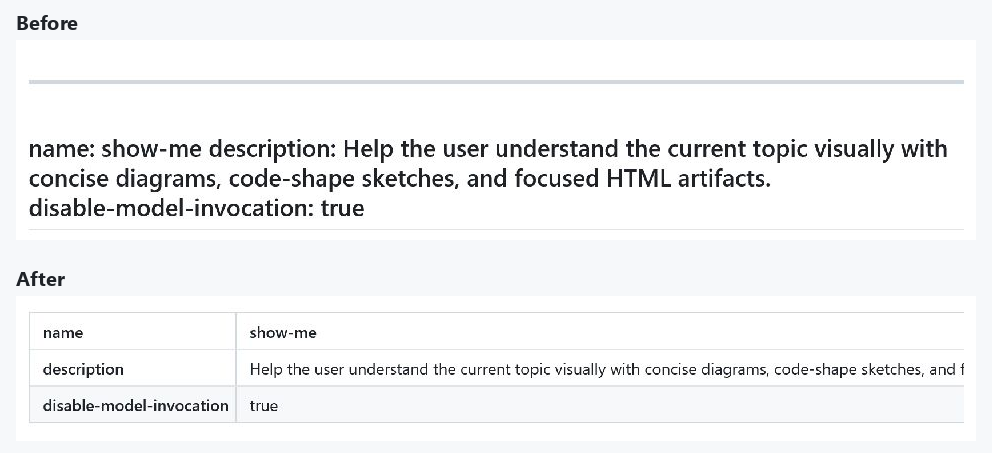
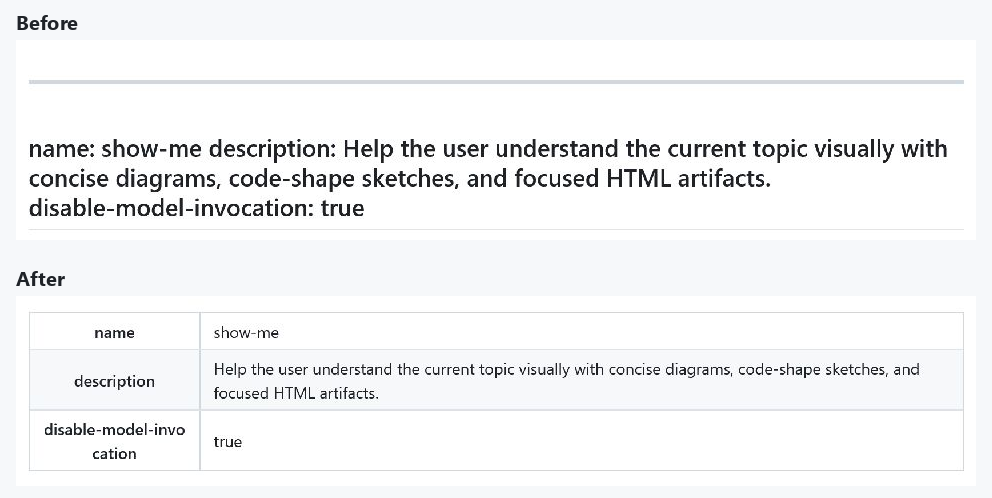
fix(markdown): match GitHub metadata and Copy controls
The initial metadata table stripes the wrong row and clips long
values. Code Copy also uses a smaller target than GitHub's control.

1. Render metadata keys as HTML row headers and opt into wrapping.
2. Pin the component fix for header semantics and paragraph widths.
3. Use the standard 32-pixel code Copy target and 16-pixel icon.
4. Refresh native evidence and document the verified scope.

diff --git a/src/core/markdown_frontmatter.rs b/src/core/markdown_frontmatter.rs
@@ -23,11 +23,11 @@ fn render(content: &str) -> Option<String> {
             if mapping.is_empty() {
                 return None;
             }
-            let mut table = String::from("<table>\n");
+            let mut table = String::from("<table style=\"white-space: normal\">\n");
             for (key, value) in &mapping {
-                table.push_str("<tr><td><strong>");
+                table.push_str("<tr><th>");
                 table.push_str(&cell(key)?);
-                table.push_str("</strong></td><td>");
+                table.push_str("</th><td>");
                 table.push_str(&cell(value)?);
                 table.push_str("</td></tr>\n");
             }
@@ -69,10 +69,10 @@ mod tests {
             let content = content.replace('\n', newline);
             let processed = preprocess(&content);
             assert!(processed.starts_with(concat!(
-                "<table>\n",
-                "<tr><td><strong>name</strong></td><td>show-me</td></tr>\n",
-                "<tr><td><strong>description</strong></td><td>Show a diagram.</td></tr>\n",
-                "<tr><td><strong>disable-model-invocation</strong></td><td>true</td></tr>\n",
+                "<table style=\"white-space: normal\">\n",
+                "<tr><th>name</th><td>show-me</td></tr>\n",
+                "<tr><th>description</th><td>Show a diagram.</td></tr>\n",
+                "<tr><th>disable-model-invocation</th><td>true</td></tr>\n",
                 "</table>\n\n"
             )));
             assert!(processed.ends_with(&format!("{newline}# Body{newline}")));
@@ -82,7 +82,7 @@ mod tests {
     #[test]
     fn metadata_accepts_a_bom_trailing_spaces_and_an_eof_delimiter() {
         let content = "\u{feff}--- \r\nname: show-me\r\n---\t";
-        assert!(preprocess(content).starts_with("<table>\n"));
+        assert!(preprocess(content).starts_with("<table style=\"white-space: normal\">\n"));
         assert!(preprocess(content).ends_with("</table>\n\n"));
     }
 
@@ -95,8 +95,8 @@ mod tests {
             processed.contains("&lt;img src=\"https://example.invalid/image\"&gt; &amp; *literal*")
         );
         assert!(!processed.contains("<img"));
-        assert!(processed.contains("<strong>empty</strong></td><td>&#32;</td>"));
-        assert!(processed.contains("<strong>missing</strong></td><td>&#32;</td>"));
+        assert!(processed.contains("<th>empty</th><td>&#32;</td>"));
+        assert!(processed.contains("<th>missing</th><td>&#32;</td>"));
     }
 
     #[test]

diff --git a/src/ui/markdown_preview.rs b/src/ui/markdown_preview.rs
@@ -1104,7 +1104,6 @@ impl Render for MarkdownPreview {
                 Button::new("copy-code")
                     .icon(IconName::Copy)
                     .ghost()
-                    .xsmall()
                     .text_color(copy_color)
                     .tooltip(t(L10nKey::EditorCopyCode))
                     .on_click(move |_, _, cx| {
@@ -2134,7 +2133,7 @@ mod tests {
         let text = reading.read_with(&vcx, |reading, _| reading.text.clone());
         text.update(&mut vcx, |text, cx| text.select_all(cx));
         let parsed = text.read_with(&vcx, |text, _| text.source());
-        assert!(parsed.starts_with("<table>\n"));
+        assert!(parsed.starts_with("<table style=\"white-space: normal\">\n"));
         assert!(parsed.contains("ctty7-mermaid://0"));
         let selected = text.read_with(&vcx, |text, _| text.selected_text());
         let first = reading.read_with(

diff --git a/docs/testing/markdown-skill-preview.md b/docs/testing/markdown-skill-preview.md
@@ -1,6 +1,6 @@
 # Skill Markdown preview verification
 
-Verified on Windows on 2026-10-08 with the production Markdown reading view
+Verified on Windows on 2026-10-09 with the production Markdown reading view
 and the native visual fixture, at 175% system DPI and 100% application scale.
 The reference is [show-me's SKILL.md](https://github.com/humanlayer/skills/blob/main/plugins/show-me/skills/show-me/SKILL.md).
 
@@ -21,12 +21,19 @@ never reached the renderer.
 The light 1000-by-800 viewport now shows metadata rows and the sequence diagram.
 The release build also passed the dark 700-by-800 viewport check. Diagram copy
 matched the original source exactly, including all seven CRLF line endings.
-Long metadata cells remain accessible through the native table's horizontal
-scrolling in the narrow viewport.
+Metadata keys are centered and bold, the second row uses the GitHub stripe,
+and long values wrap within the viewport. Column-header tables retain their
+existing stripe order and horizontal scrolling.
+
+Code Copy uses a 32-pixel target and a 16-pixel icon at 100% application scale,
+in place of the 20-pixel target and 12-pixel icon. Clicking near the enlarged
+button's edge copied the complete block, including its indentation.
 
 ![Metadata before and after](images/markdown-frontmatter-before-after.webp)
 
 ![CRLF Mermaid before and after](images/markdown-mermaid-crlf-before-after.webp)
+
+![Code Copy before and after](images/markdown-copy-button-before-after.webp)
 
 These are cropped native captures with comparison labels added. Document text
 and diagram pixels are unchanged.
@@ -38,13 +45,15 @@ and diagram pixels are unchanged.
 - GPUI tests cover metadata with Mermaid enabled or disabled, unsaved edits, removal of metadata, source preservation, and theme/selection stability with CRLF diagrams.
 - Invalid Mermaid syntax still falls back to a code block.
 - `cargo test --workspace --locked`: 2990 passed, 8 ignored, 0 failed.
+- GPUI component text tests: 70 passed, including HTML row headers, column headers, alignment, and stripe order.
 - `cargo fmt --all -- --check` and `git diff --check`: passed.
-- `cargo build -p tty7 --bin tty7-app --features markdown-visual-tests --release --locked`: passed.
+- The production native fixture built with `markdown-visual-tests` in the dev profile. A temporary binary name avoided replacing the existing local debug executable; the saved manifest retains the normal application targets.
 
 ## Scope
 
-Metadata uses the existing native table layout, not GitHub's browser wrapping.
 Nested values display as literal YAML rather than nested browser tables.
+The native text engine may break long field names at different positions from
+GitHub's browser text engine.
 The standalone visual fixture omits the application's dialog layer, so this
 pass does not revalidate the expanded diagram viewer, zoom, or pan controls.
 The eight ignored workspace tests were not run.
